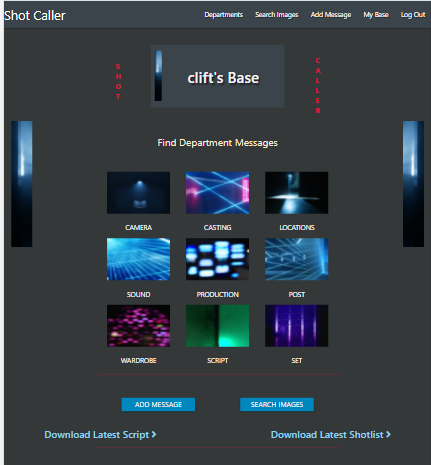
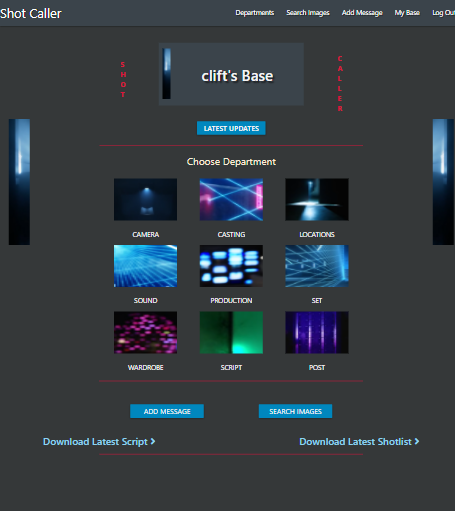
Latest updates styling

diff --git a/templates/pro.html b/templates/pro.html
@@ -32,58 +32,8 @@
    </div>
    <!--main-->
    <div class="col s10">
-      <!--find message form-->
-      <div class="row margintop-50">
-         <div class="col top-box s10 offset-s1 m6 offset-m3">
-            <form class="" method="POST" action="{{ url_for('get_pro') }}">
-               <div class="input-field">
-                  <i class="fas fa-fas fa-calendar-alt prefix light-blue-text text-darken-4"></i>
-                  <input id="date" name="date" type="text" class="datepicker validate" style="color:whitesmoke !important;" required>
-                  <label for="date">Pick Date</label>
-                  <div class="center-align">
-                     <button type="submit" class="btn-small light-blue darken-4 text-shadow">
-                     Find Message
-                     </button>
-                  </div>
-               </div>
-            </form>
-         </div>
-      </div>
-      <!--find all messages-->
-      <div class="row margintop-20">
-         <div class="col s6 offset-s3 m4">
-            <p class="blueBack-sea pad-findl center-align find">
-               <a class="offwhite" href="{{ url_for('get_all', dep=dep) }}">
-               All Messages 
-               </a>
-            </p>
-         </div>
-         <!--Add Message-->
-         <div class="col s6 m4">
-            <p class="blueBack-sea pad-findm center-align find">
-               <a class="offwhite" href="{{ url_for('add_message') }}">
-               Add Message
-               </a>
-            </p>
-         </div>
-         <!--Find by Poster-->
-         <div class="col s6 m4">
-            <p class="blueBack-sea pad-findr center-align find">
-               <a class="offwhite" href="{{ url_for('get_poster', dep=dep) }}">
-               Find by Poster
-               </a>
-            </p>
-         </div>
-      </div>
-      <hr class="red-line">
-      <h5 class="center-align antiquewhite">{{ day }}</h5>
-   </div>
-   <!--panel right-->
-   <div class="col s1">
-      <div class="panel-right"></div>
-   </div>
-</div>
-<div class="row">
+
+        <div class="row">
    <div class="col s12 m10 offset-m1">
       <!--messages-->
       <ul class="collapsible collapsible-border">
@@ -149,4 +99,12 @@
       </ul>
    </div>
 </div>
+
+   </div>
+   <!--panel right-->
+   <div class="col s1">
+      <div class="panel-right"></div>
+   </div>
+</div>
+
 {% endblock %}

diff --git a/templates/user_home.html b/templates/user_home.html
@@ -61,28 +61,28 @@
             Upload Images </a>
          </div>
       </div>
-      <hr class="red-line margintop-50">
+
       {% endif %} 
 
       <!---check for urgent production messages button-->
-      <div class="row margintop-20">
-         <div class="col s12 m6 offset-m3 center-align find">
-            <a class="offwhite blueBack-sea text-shadow" href="{{ url_for('get_pro') }}">
-            Latest Production updates </a>
+      <div class="row">
+         <div class="col s12 margintop-10 m6 offset-m3 center-align find">
+            <a class="pad-20 btn-small offwhite blueBack-sea text-shadow" href="{{ url_for('get_pro') }}">
+            <strong> Latest Updates</strong> </a>
          </div>
       </div>
 
-      <hr class="red-line margintop-50">
+      <hr class="red-line margintop-20">
 
       <!--Departments-->
-      <div class="row margintop-20">
+      <div class="row">
          <div class="col s12 m8 offset-m2">
             <h5 class="antiquewhite center-align">
                Choose Department
             </h5>
          </div>
       </div>
-      <div class="row margintop-50">
+      <div class="row margintop-20">
          <div class="col s12 m8 offset-m2">
             <div class="row">
                {% for dept in depts %}

diff --git a/static/css/style.css b/static/css/style.css
@@ -53,6 +53,14 @@ hr.red-line {
 	margin-bottom: 0;
 }
 
+.pad-10 {
+    padding: 10px;
+}
+
+.latest {
+    font-size: 26px;
+}
+
 .pad-20 {
 	padding-left: 20px;
 	padding-right: 20px;

diff --git a/app.py b/app.py
@@ -116,7 +116,7 @@ def get_pro():
         depart = list(mongo.db.production.find({"date": today}))
 
         return render_template(
-            "pro.html", dep="Production Latest", depart=depart,
+            "pro.html", dep="Today's Production Updates", depart=depart,
             date=today, day="TODAY")
 
 

diff --git a/README.md b/README.md
@@ -21,7 +21,12 @@ as a product on an individual basis for each new production and owner.
 
 # Table of Content
 
+- [Table of Content](#table-of-content)
 - [User Experience (UX)](#user-experience--ux-)
+  * [Strategy Plane](#strategy-plane)
+  * [Scope Plane](#scope-plane)
+  * [Structure Plane](#structure-plane)
+  * [Skeleton Plane](#skeleton-plane)
   * [User stories](#user-stories)
     + [First Time User Goals](#first-time-user-goals)
     + [Returning User Goals](#returning-user-goals)
@@ -37,14 +42,21 @@ as a product on an individual basis for each new production and owner.
   * [User Base Page](#user-base-page)
   * [Departments Page](#departments-page)
   * [Images Page](#images-page)
-  * [Admin Page](#admin-page) 
+  * [Admin Page](#admin-page)
+- [Database structure](#database-structure)
 - [Languages Used](#languages-used)
-- [Frameworks, Libraries & Programs Used](#frameworks--libraries---programs-used)
+- [Frameworks, Databases, Libraries & Programs Used](#frameworks--databases--libraries---programs-used)
+- [Development platform](#development-platform)
 - [Testing](#testing)
-  * [Credits](#credits)
-  * [Code](#code)
+- [Testing User Stories from User Experience (UX) Section](#testing-user-stories-from-user-experience--ux--section)
+  * [First Time User Goals](#first-time-user-goals-1)
+  * [Returning User Goals](#returning-user-goals-1)
+  * [Frequent User Goals](#frequent-user-goals-1)
+- [Credits](#credits)
+- [Code](#code)
 
 <small><i><a href='http://ecotrust-canada.github.io/markdown-toc/'>Table of contents generated with markdown-toc</a></i></small>
+
 
 
 # User Experience (UX)
@@ -380,6 +392,13 @@ The MongoDB Shot Caller database contains the following collections.
    - Am I Responsive was used to test the site's responsive sizings and to generate responsive sizing images.
 1. [GitHub Wiki TOC generator:](http://ecotrust-canada.github.io/markdown-toc/)
    - GitHub Wiki TOC generator was used to create the Table of Contents.
+
+
+# Development platform
+
+1. [Gitpod:](https://www.gitpod.io/docs/)
+   - Gitpod was used as the development platform.
+
 [Back to Table of Content](#table-of-content)
 
 # Testing
@@ -474,6 +493,8 @@ W3C Markup Validator, W3C CSS Validator. PEP8 and JSHint were used to validate e
 <img src="documentation/readme-images/im-word.png" width="25%">
 </h2>
 
+[Back to Table of Content](#table-of-content)
+
 ## Returning User Goals
 
 4. As a Returning User, I want to download the latest shotlist and script.
@@ -505,6 +526,8 @@ W3C Markup Validator, W3C CSS Validator. PEP8 and JSHint were used to validate e
     2. Upon entering 
     3. Upon entering 
 
+[Back to Table of Content](#table-of-content)
+
 ## Frequent User Goals
 
 7. As a Frequent User, I want to view communications and see images relating to style, 
@@ -527,6 +550,38 @@ W3C Markup Validator, W3C CSS Validator. PEP8 and JSHint were used to validate e
     1. Upon entering 
     2. Upon entering 
     3. Upon entering 
+
+# Repository
+   [Github](https://github.com/)
+   - Github was used as the repository for the project.
+
+### Forking the GitHub Repository
+
+By forking the GitHub Repository we make a copy of the original repository on our GitHub account to view and/or make changes without affecting the original repository by using the following steps...
+
+1. Log in to GitHub and locate the [GitHub Repository](https://github.com/)
+2. At the top of the Repository (not top of page) just above the "Settings" Button on the menu, locate the "Fork" Button.
+3. You should now have a copy of the original repository in your GitHub account.
+
+### Making a Local Clone
+
+1. Log in to GitHub and locate the [GitHub Repository](https://github.com/)
+2. Under the repository name, click "Clone or download".
+3. To clone the repository using HTTPS, under "Clone with HTTPS", copy the link.
+4. Open Git Bash
+5. Change the current working directory to the location where you want the cloned directory to be made.
+6. Type `git clone`, and then paste the URL you copied in Step 3.
+7. Press Enter. Your local clone will be created.
+
+Click [Here](https://help.github.com/en/github/creating-cloning-and-archiving-repositories/cloning-a-repository#cloning-a-repository-to-github-desktop) to retrieve pictures for some of the buttons and more detailed explanations of the above process.
+
+# Deployment
+
+[Heroku](https://www.heroku.com/platform)
+   - Heroku was used to deploy the project.
+
+
+
 
 # Credits
 
